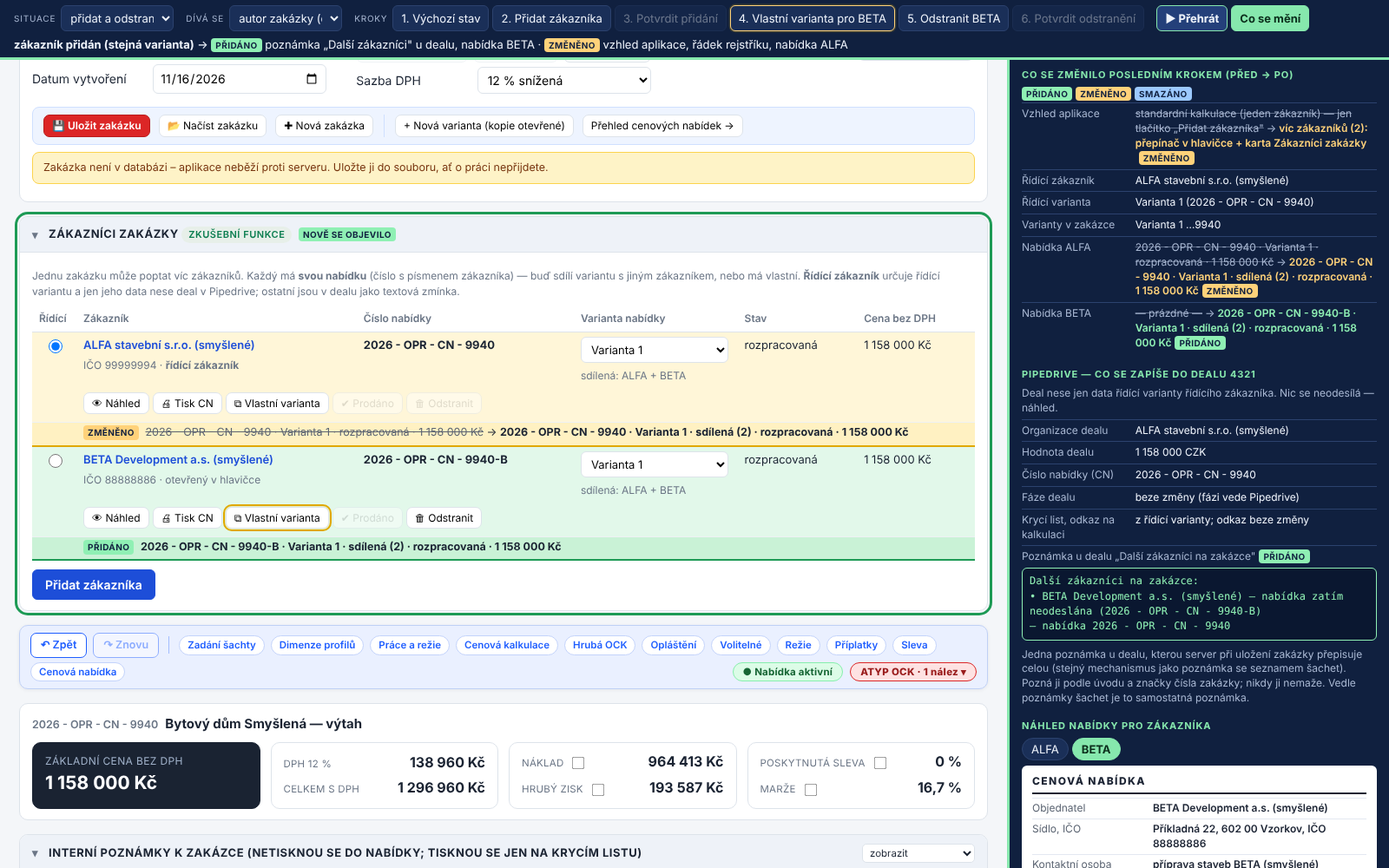
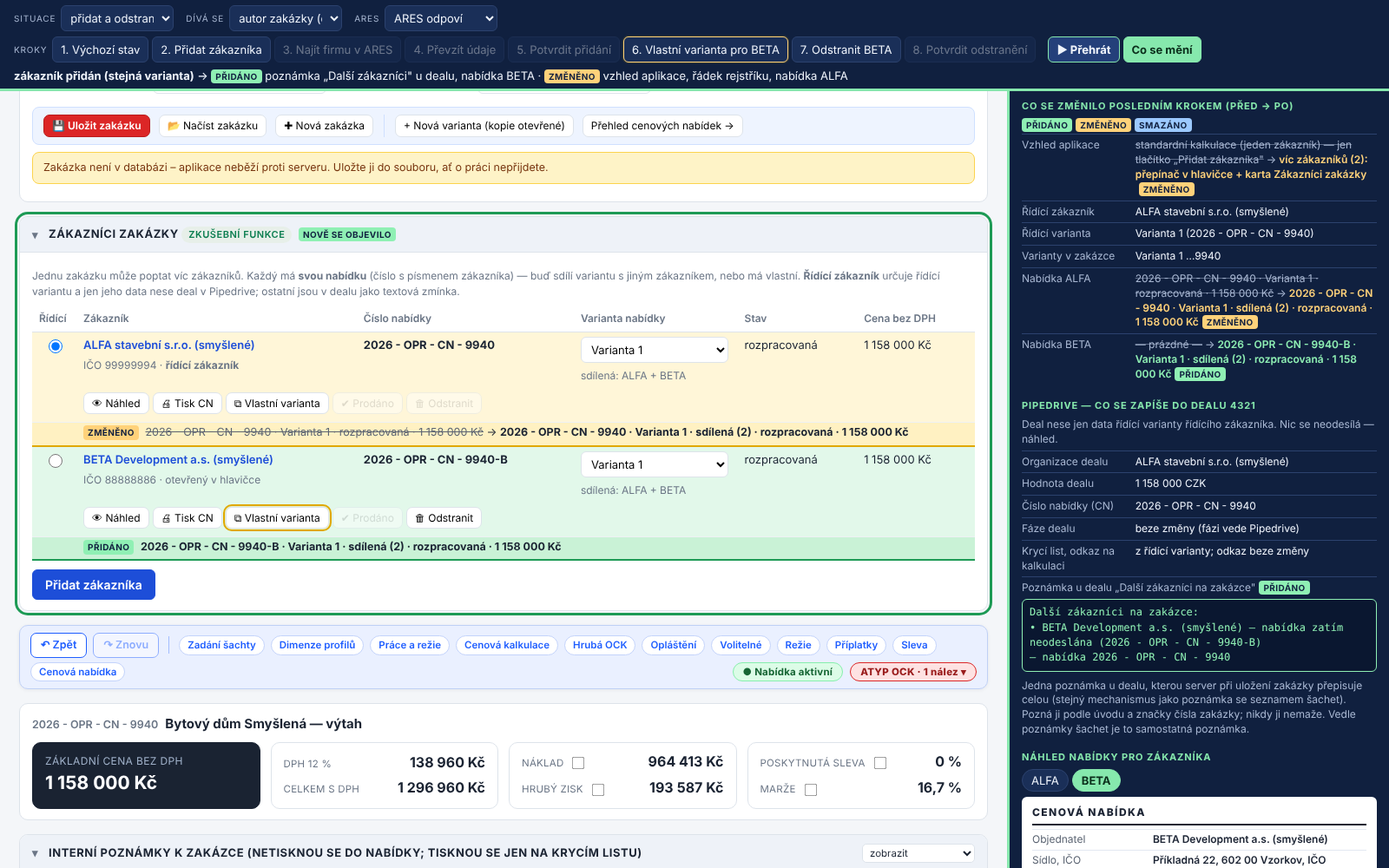
Prototyp víc zákazníků v5: ARES a databáze zákazníků ve formuláři nového zákazníka, širší pole
Doplněk J. V. 16. 11. 2026. Panel a hlášky ARES z aplikace (aresZpracuj, aresRozdily, aresPrepis,
aresHlaska), odpověď rejstříku napodobená, stavy nenalezeno a výpadek. Zapsáno do návrhu § 2a
a promptů E1 a E0. Ověření 46/0 při 1600 i 400 px. Kód aplikace beze změny.

Claude-Session: https://claude.ai/code/session_018mwHQHkWhKrpvqrinmjojg

Changed region(s): [[0.0, 0.0, 1.0, 1.0]]

diff --git a/podklady/vz_prototyp/prototyp.js b/podklady/vz_prototyp/prototyp.js
@@ -22,17 +22,20 @@
   };
   const PISMENA = { a: '', b: 'B', c: 'C' };
   const SCENARE = {
-    pridat: { nazev: 'přidat a odstranit zákazníka', kroky: [['form', '2. Přidat zákazníka'], ['pridejForm:b', '3. Potvrdit přidání'], ['vlastni:b', '4. Vlastní varianta pro BETA'], ['odeber:b', '5. Odstranit BETA'], ['odeberAno', '6. Potvrdit odstranění']] },
+    pridat: { nazev: 'přidat a odstranit zákazníka', kroky: [['form', '2. Přidat zákazníka'], ['ares', '3. Najít firmu v ARES'], ['aresAno', '4. Převzít údaje'], ['pridejForm:b', '5. Potvrdit přidání'], ['vlastni:b', '6. Vlastní varianta pro BETA'], ['odeber:b', '7. Odstranit BETA'], ['odeberAno', '8. Potvrdit odstranění']] },
     odeslana: { nazev: 'odstranit zákazníka s odeslanou nabídkou', kroky: [['odeber:b', '2. Odstranit BETA'], ['odeberAno', '3. Potvrdit odstranění']] },
     stejna: { nazev: 'stejná varianta pro víc zákazníků', kroky: [['pridej:b', '2. Přidat zákazníka BETA'], ['odesli:a', '3. Odeslat nabídku ALFA'], ['odesli:b', '4. Odeslat tutéž nabídku BETA']] },
     sachty: { nazev: 'víc zákazníků + víc šachet', kroky: [['vlastni:b', '2. Vlastní varianta pro BETA'], ['sachty:b', '3. BETA chce dvě varianty šachet (A 1 ks, B 2 ks)'], ['odesli:b', '4. Odeslat nabídku BETA']] },
     prodej: { nazev: 'prodej druhému zákazníkovi', kroky: [['prodej:b', '2. Prodáno → BETA'], ['prodejAno', '3. Potvrdit prodej'], ['orgAno', '4. Zkusit zápis organizace znovu (jen po výpadku)']] },
   };
+  const ARES_STAVY = { ok: 'ARES odpoví', nenalezeno: 'IČO v ARES není', sit: 'výpadek ARES' };
+  /* Napodobená odpověď rejstříku ARES (tvar jako skutečné API, zpracuje ji aresZpracuj z aplikace). */
+  const aresOdpoved = (ico) => { const k = Object.keys(FIRMY).find((x) => FIRMY[x].ico === ico); return k ? { ico, obchodniJmeno: FIRMY[k].nazev, dic: 'CZ' + ico, sidlo: { textovaAdresa: FIRMY[k].sidlo } } : null; };
   const PD_STAVY = { ok: 'Pipedrive odpoví', vypadek: 'výpadek Pipedrive' };
   const ROLE = { autor: 'autor zakázky (obchodník)', jiny: 'jiný obchodník', admin: 'administrátor' };
   const ZNACKY = { pridano: 'přidáno', zmeneno: 'změněno', smazano: 'smazáno', beze: 'beze změny' };
   const DEAL_ID = '4321';
-  const S = { scenar: 'pridat', role: 'autor', pd: 'ok', otevreno: true, hraje: null, blik: false, nahled: '' };
+  const S = { scenar: 'pridat', role: 'autor', pd: 'ok', ares: 'ok', otevreno: true, hraje: null, blik: false, nahled: '' };
   let P, OBS = null, PK = null, KRESLI = false;
   const puvodni = { variantaCislo: window.variantaCislo, cisloSVariantou: window.cisloSVariantou };
 
@@ -130,10 +133,10 @@
 
   /* ----- akce (odpovídají tlačítkům budoucí funkce) ----- */
   function novyZ(id, varianta) { return Object.assign({ id, pismeno: PISMENA[id], varianta, odeslano: {}, platna: null, prodano: '' }, FIRMY[id]); }
-  function pridej(id, vlastniVar) {
+  function pridej(id, vlastniVar, udaje) {
     const rz = ridiciZ();
-    P.zak.push(novyZ(id, rz.varianta)); P.poznamka = true;
-    zapis(ROLE[S.role], 'přidal zákazníka ' + FIRMY[id].kratce + ' (písmeno ' + PISMENA[id] + ') — nabídka ' + cisloZ(Zk(id)) + ', stejná varianta jako ' + rz.kratce);
+    P.zak.push(Object.assign(novyZ(id, rz.varianta), udaje || {})); P.poznamka = true;
+    zapis(ROLE[S.role], 'přidal zákazníka ' + Zk(id).kratce + (udaje && udaje.zdroj ? ' (' + udaje.zdroj + ')' : '') + ' (písmeno ' + PISMENA[id] + ') — nabídka ' + cisloZ(Zk(id)) + ', stejná varianta jako ' + rz.kratce);
     if (vlastniVar) vlastni(id); else otevri(id);
   }
   function vlastni(id) {
@@ -228,7 +231,9 @@
     const zamcena = !!(v && v.zamek && v.zamek.zamceno), prodano = !!prodanoZ();
     if (co === 'pridej') return !z && !prodano;
     if (co === 'form') return !P.formular && !prodano && Object.keys(FIRMY).some((k) => !Zk(k));
-    if (co === 'pridejForm') return !!P.formular && !z;
+    if (co === 'pridejForm') return !!P.formular && !z && !!P.f && String(P.f.h.objednatel).trim() !== '';
+    if (co === 'ares') return !!P.formular && !!P.f && !(P.f.ares && P.f.ares.subjekt) && String(P.f.h.objednatel).trim() === '';
+    if (co === 'aresAno') return !!P.formular && !!P.f && !!(P.f.ares && P.f.ares.subjekt);
     if (co === 'odeberAno') return !!(P.potvrzeni && P.potvrzeni.typ === 'odeber');
     if (co === 'odesli') return !!z && !odeslanoTed(z) && !prodano;
     if (co === 'vlastni') return !!z && !prodano && (sdili(z).length > 1 || zamcena);
@@ -317,15 +322,59 @@
       + '<div class="vzp-pod"><button type="button" class="vzp-modre' + (dalsiKrok().indexOf('pridej') === 0 && !S.hraje ? ' vzp-dalsi' : '') + '" data-vzp="form"' + (volne.length && !prodanoZ() ? '' : ' disabled') + '>Přidat zákazníka</button>' + napoveda + '</div>'
       + form + upoz + potv + '</div>';
   }
+  /* ----- formulář „Nový zákazník na zakázce": ARES a databáze zákazníků jako v hlavičce ----- */
+  const formNovy = () => { const volne = Object.keys(FIRMY).filter((k) => !Zk(k)); return { id: volne[0], h: { objednatel: '', adresaObjednatele: '', ico: volne[0] ? FIRMY[volne[0]].ico : '', dic: '', kontakt: '' }, nova: 'stejna', ares: null, db: false, zdroj: '' }; };
+  function formAres() {
+    const f = P.f, ico = icoNormalizuj(f.h.ico);
+    f.db = false;
+    if (!icoVyplneno(ico)) { f.ares = { chyba: aresHlaska('prazdne') }; return; }
+    if (!icoPlatne(ico)) { f.ares = { chyba: aresHlaska('neplatne') }; return; }
+    if (S.ares === 'sit') { f.ares = { chyba: aresHlaska('sit') }; return; }
+    const sub = S.ares === 'ok' ? aresZpracuj(aresOdpoved(ico)) : null;
+    f.ares = sub ? { subjekt: sub } : { chyba: aresHlaska('nenalezeno', ico) };
+  }
+  function formAresAno() {
+    const f = P.f; if (!f.ares || !f.ares.subjekt) return;
+    const n = aresPrepis(f.h, f.ares.subjekt);
+    f.zdroj = 'ověřen v ARES, převzato ' + n + ' údajů'; f.ares = null;
+  }
+  function formDb(k) {
+    const f = P.f, z = FIRMY[k];
+    Object.assign(f.h, { objednatel: z.nazev, adresaObjednatele: z.sidlo, ico: z.ico, dic: 'CZ' + z.ico, kontakt: z.kontakt });
+    f.zdroj = 'z databáze zákazníků'; f.db = false; f.ares = null;
+  }
+  function formAresHtml() {
+    const f = P.f, a = f.ares;
+    if (!a) return '';
+    if (a.chyba) return '<div class="ares-panel chyba"><div class="ares-hlava">Firma se nenačetla</div><div class="ares-txt">' + esc(a.chyba) + '</div><div class="ares-btns"><button type="button" class="mini" data-vzp="aresNe">Zavřít</button></div></div>';
+    const sub = a.subjekt, rozd = aresRozdily(f.h, sub);
+    return '<div class="ares-panel"><div class="ares-hlava">' + esc(sub.nazev) + '</div><div class="ares-txt">' + esc(aresPopis(sub)) + (sub.dic ? ' · DIČ ' + esc(sub.dic) : '') + '</div>'
+      + (rozd.length ? '<table class="ares-tab"><tr><th>Údaj</th><th>Ve formuláři teď</th><th>Z rejstříku</th></tr>' + rozd.map((r) => '<tr><td>' + esc(r.label) + '</td><td class="stara">' + (r.ted ? esc(r.ted) : '<i>prázdné</i>') + '</td><td class="nova">' + esc(r.nove) + '</td></tr>').join('') + '</table>'
+        + '<div class="ares-btns"><button type="button" class="primary' + (dalsiKrok() === 'aresAno' && !S.hraje ? ' vzp-dalsi' : '') + '" data-vzp="aresAno">Převzít údaje do formuláře (' + rozd.length + ')</button><button type="button" data-vzp="aresNe">Nechat, jak je</button></div>'
+        : '<div class="ares-txt">Formulář už tyhle údaje obsahuje – přepisovat není co.</div><div class="ares-btns"><button type="button" data-vzp="aresNe">Zavřít</button></div>')
+      + '<div class="ares-zdroj">Zdroj: veřejný rejstřík ARES (Ministerstvo financí ČR). V prototypu napodobená odpověď. Údaje se převezmou jen na tomhle potvrzení.</div></div>';
+  }
   function formHtml() {
-    const volne = Object.keys(FIRMY).filter((k) => !Zk(k));
-    return P.formular && volne.length ? '<div class="vzp-form"><b>Nový zákazník na zakázce</b>'
-      + '<div class="row"><label>Zákazník</label><input type="text" value="' + esc(FIRMY[volne[0]].nazev) + '" readonly></div>'
-      + '<div class="row"><label>IČO zákazníka</label><input type="text" value="' + esc(FIRMY[volne[0]].ico) + '" readonly></div>'
-      + '<div class="row"><label>Nabídka</label><span class="vzp-volba"><label><input type="radio" name="vzpNova" value="stejna" checked> stejná varianta jako ' + esc(ridiciZ().kratce) + ' („' + esc(Va(ridiciZ().varianta).nazev) + '")</label>'
-      + '<label><input type="radio" name="vzpNova" value="vlastni"> vlastní varianta (kopie)</label></span></div>'
-      + '<div class="note">V ostré verzi: našeptávač z databáze zákazníků a „Najít firmu v ARES" jako v hlavičce. Zákazník dostane písmeno <b>' + esc(PISMENA[volne[0]]) + '</b> — jeho nabídky ponesou číslo …-' + esc(PISMENA[volne[0]]) + '.</div>'
-      + '<button type="button" class="vzp-modre' + (dalsiKrok() === 'pridejForm:' + volne[0] && !S.hraje ? ' vzp-dalsi' : '') + '" data-vzp="pridejForm:' + volne[0] + '">Přidat zákazníka</button> <button type="button" class="mini" data-vzp="formNe">Zrušit</button></div>' : '';
+    if (!P.formular || !P.f || !P.f.id) return '';
+    const f = P.f, h = f.h, pis = PISMENA[f.id];
+    const pole = (k, popis, navic) => '<div class="row"><label>' + popis + '</label><input type="text" autocomplete="off" data-vzp-f="' + k + '" value="' + esc(h[k]) + '"' + (navic || '') + '></div>';
+    const db = f.db ? '<div class="vzp-db"><b>Databáze zákazníků</b> (v prototypu smyšlené záznamy)' + Object.keys(FIRMY).filter((k) => !Zk(k)).map((k) => '<button type="button" class="vzp-db-r" data-vzp="db:' + k + '"><b>' + esc(FIRMY[k].nazev) + '</b><span>IČO ' + esc(FIRMY[k].ico) + ' · ' + esc(FIRMY[k].sidlo) + '</span></button>').join('') + '</div>' : '';
+    const hotovo = String(h.objednatel).trim() !== '';
+    return '<div class="vzp-form"><b>Nový zákazník na zakázce</b>'
+      + '<div class="vzp-form-pole"><div>'
+      + pole('objednatel', 'Zákazník', ' placeholder="název firmy — nebo ho doplňte z ARES / z databáze"')
+      + pole('adresaObjednatele', 'Sídlo zákazníka')
+      + pole('kontakt', 'Kontaktní osoba')
+      + '</div><div>'
+      + pole('ico', 'IČO zákazníka', ' placeholder="8 číslic" inputmode="numeric"')
+      + pole('dic', 'DIČ zákazníka')
+      + '<div class="row noprint"><div class="ares-tlacitka"><button type="button" class="mini" data-vzp="dbOtevri" title="vybrat zákazníka z databáze zákazníků (doplní všechna pole)">Vybrat z databáze zákazníků</button>'
+      + '<button type="button" class="mini' + (dalsiKrok() === 'ares' && !S.hraje ? ' vzp-dalsi' : '') + '" style="margin-left:auto" data-vzp="ares" title="zeptat se rejstříku ARES, jaká firma pod tímto IČO je">🔎 Najít firmu v ARES</button></div></div>'
+      + '</div></div>' + db + formAresHtml()
+      + '<div class="row vzp-form-nab"><label>Nabídka</label><span class="vzp-volba"><label><input type="radio" name="vzpNova" value="stejna"' + (f.nova === 'stejna' ? ' checked' : '') + '> stejná varianta jako ' + esc(ridiciZ().kratce) + ' („' + esc(Va(ridiciZ().varianta).nazev) + '")</label>'
+      + '<label><input type="radio" name="vzpNova" value="vlastni"' + (f.nova === 'vlastni' ? ' checked' : '') + '> vlastní varianta (kopie)</label></span></div>'
+      + '<div class="note">Zákazník dostane písmeno <b>' + esc(pis) + '</b> — jeho nabídky ponesou číslo …-' + esc(pis) + '.' + (f.zdroj ? ' Údaje: ' + esc(f.zdroj) + '.' : '') + '</div>'
+      + '<button type="button" class="vzp-modre' + (dalsiKrok() === 'pridejForm:' + f.id && !S.hraje ? ' vzp-dalsi' : '') + '" data-vzp="pridejForm:' + f.id + '"' + (hotovo ? '' : ' disabled title="nejdřív vyplňte zákazníka — ručně, z ARES nebo z databáze"') + '>Přidat zákazníka</button> <button type="button" class="mini" data-vzp="formNe">Zrušit</button></div>';
   }
   function odeberHtml() {
     const { z, v, vlastniV, zamcena, odeslano } = odeberInfo(P.potvrzeni.id);
@@ -424,6 +473,7 @@
     document.getElementById('vzpLista').innerHTML =
       '<div class="vzp-sk"><label class="vzp-pop" for="vzpScenar">Situace</label>' + vyber('vzpScenar', SCENARE, S.scenar) + '</div>'
       + '<div class="vzp-sk"><label class="vzp-pop" for="vzpRole">Dívá se</label>' + vyber('vzpRole', ROLE, S.role) + '</div>'
+      + (S.scenar === 'pridat' || P.formular ? '<div class="vzp-sk"><label class="vzp-pop" for="vzpAres">ARES</label>' + vyber('vzpAres', ARES_STAVY, S.ares) + '</div>' : '')
       + (S.scenar === 'prodej' ? '<div class="vzp-sk"><label class="vzp-pop" for="vzpPd">Pipedrive</label>' + vyber('vzpPd', PD_STAVY, S.pd) + '</div>' : '')
       + '<div class="vzp-sk vzp-kroky"><span class="vzp-pop">Kroky</span>' + kr('reset', '1. Výchozí stav') + kroky.map(([a, t]) => kr(a, t)).join('') + '</div>'
       + (P.krok === 'vychozi' && !S.hraje && k ? '<span class="vzp-napoveda">◀ Klikněte na „' + esc(k[1]) + '"</span>' : '')
@@ -510,7 +560,7 @@
 
   const POPISY = { pridej: 'zákazník přidán (stejná varianta)', odesli: 'nabídka vytištěna (odeslána)', vlastni: 'založena vlastní varianta zákazníka', uprav: 'vlastní varianta upravena', sachty: 've vlastní variantě víc šachet',
     prodej: 'prodej — čeká na potvrzení', prodejAno: 'prodáno, řídící zákazník změněn', orgAno: 'organizace dealu přepsána (opakovaný zápis)', ridici: 'řídící zákazník změněn ručně',
-    odeber: 'odstranění zákazníka — čeká na potvrzení', odeberAno: 'zákazník odstraněn', form: 'formulář nového zákazníka', varianta: 'zákazníkovi přiřazena jiná varianta' };
+    odeber: 'odstranění zákazníka — čeká na potvrzení', odeberAno: 'zákazník odstraněn', form: 'formulář nového zákazníka', ares: 'dotaz do ARES (formulář nového zákazníka)', aresAno: 'údaje z ARES převzaty do formuláře', varianta: 'zákazníkovi přiřazena jiná varianta' };
   function krok(a, arg) {
     const [co, id] = a.split(':');
     zHlavicky();
@@ -518,18 +568,25 @@
     if (co === 'reset') { vychozi(); S.blik = false; kresli(); window.scrollTo(0, 0); return; }
     if (co === 'vyber') { otevri(id); kresli(); return; }
     if (co === 'nahled') { S.nahled = id; if (id !== P.vybrany) otevri(id); S.otevreno = true; kresli(); const n = document.querySelector('#vzpPanel .vzp-papir'); if (n && n.scrollIntoView) n.scrollIntoView({ block: 'center' }); return; }
-    if (co === 'formNe') { P.formular = false; kresli(); return; }
+    if (co === 'formNe') { P.formular = false; P.f = null; kresli(); return; }
+    if (co === 'aresNe') { P.f.ares = null; kresli(); return; }
+    if (co === 'dbOtevri') { P.f.db = !P.f.db; P.f.ares = null; kresli(); return; }
+    if (co === 'db') { formDb(id); kresli(); return; }
+    if (co === 'ares' && !(P.formular && P.f)) return;
+    if (co === 'ares' && String(P.f.h.objednatel).trim() !== '' ) { formAres(); kresli(); return; }   // ruční ověření už vyplněného formuláře (mimo kroky)
     if (co === 'potvNe') { P.potvrzeni = null; kresli(); return; }
     if (!lze(a)) return;
     const idx = SCENARE[S.scenar].kroky.findIndex((x) => x[0] === a);
-    if (['prodej', 'form', 'odeber'].includes(co)) P.pred = snimek();   // krok jen otevírá potvrzení — nic se nemění
+    if (['prodej', 'form', 'odeber', 'ares', 'aresAno'].includes(co)) P.pred = snimek();   // krok jen otevírá potvrzení — nic se nemění
     if (co === 'prodej') { P.potvrzeni = { typ: 'prodej', id }; otevri(id); }
-    else if (co === 'form') P.formular = true;
+    else if (co === 'form') { P.formular = true; P.f = formNovy(); }
+    else if (co === 'ares') formAres();
+    else if (co === 'aresAno') formAresAno();
     else if (co === 'odeber') { P.potvrzeni = { typ: 'odeber', id }; P.formular = false; }
     else {
       P.pred = snimek(); P.formular = false;
       if (co === 'pridej') pridej(id, false);
-      else if (co === 'pridejForm') pridej(id, arg === 'vlastni');
+      else if (co === 'pridejForm') { const h = P.f.h; pridej(id, P.f.nova === 'vlastni', { nazev: String(h.objednatel).trim(), sidlo: String(h.adresaObjednatele).trim(), ico: icoNormalizuj(h.ico), kontakt: String(h.kontakt).trim(), kratce: (String(h.objednatel).trim().split(/\s+/)[0] || FIRMY[id].kratce).toUpperCase().slice(0, 14), zdroj: P.f.zdroj }); P.f = null; }
       else if (co === 'vlastni') vlastni(id);
       else if (co === 'uprav') uprav(id);
       else if (co === 'sachty') sachty(id);
@@ -551,6 +608,7 @@
   function hraj() {
     if (S.hraje) { zastav(); kresli(); return; }
     if (S.role === 'jiny') S.role = 'autor';
+    S.ares = 'ok';
     if (S.scenar === 'odeslana') S.role = 'admin';
     const fronta = ['reset'].concat(SCENARE[S.scenar].kroky.map((x) => x[0]));
     S.hraje = { i: 0, t: null };
@@ -569,12 +627,15 @@
     if (a === 'hraj') { hraj(); return; }
     zastav();
     if (a === 'panel') { S.otevreno = !S.otevreno; kresli(); return; }
-    if (a.indexOf('pridejForm:') === 0) { const v = document.querySelector('input[name="vzpNova"]:checked'); krok(a, v ? v.value : 'stejna'); return; }
+
     if (a === 'odeberAno') { const v = document.querySelector('input[name="vzpOdeber"]:checked'); krok(a, v ? v.value : 'smazat'); return; }
     krok(a);
   }
   function zmena(e) {
     const t = e.target; if (!t) return;
+    if (t.id === 'vzpAres') { zastav(); S.ares = t.value; if (P.f) P.f.ares = null; kresli(); return; }
+    if (t.name === 'vzpNova' && P.f) { P.f.nova = t.value; return; }
+    if (t.getAttribute && t.getAttribute('data-vzp-f') && P.f) { P.f.h[t.getAttribute('data-vzp-f')] = t.value; kresli(); return; }
     if (t.id === 'vzpScenar' || t.id === 'vzpRole' || t.id === 'vzpPd') {
       zastav(); S[{ vzpScenar: 'scenar', vzpRole: 'role', vzpPd: 'pd' }[t.id]] = t.value;
       if (t.id === 'vzpScenar' && t.value === 'odeslana') S.role = 'admin';   // odstranit zákazníka s odeslanou nabídkou smí jen administrátor
@@ -600,6 +661,8 @@
     document.body.insertBefore(l, document.body.firstChild);
     document.body.addEventListener('click', klik);
     document.body.addEventListener('change', zmena);
+    /* psaní do formuláře: hodnota se drží ve stavu, aby ji překreslení aplikace nesmazalo */
+    document.body.addEventListener('input', (e) => { const t = e.target, k = t && t.getAttribute && t.getAttribute('data-vzp-f'); if (k && P.f) P.f.h[k] = t.value; });
     window.addEventListener('resize', vyska);
     let t = null;
     PK = document.getElementById('page-kalk');

diff --git a/podklady/vz_prototyp/prototyp.css b/podklady/vz_prototyp/prototyp.css
@@ -149,3 +149,23 @@ body.vzp-otevreno { margin-right: 440px; }
 .vzp-chips-row .vzp-zn { align-self: center; }
 #vzpKarta .vzp-cervene { font: 600 14px system-ui, sans-serif; cursor: pointer; border-radius: 6px; padding: 8px 14px; border: 1px solid #b3261e; background: #b3261e; color: #fff; }
 #vzpKarta .vzp-pr .vzp-volba label { display: flex; }
+
+/* ----- formulář nového zákazníka: plná šířka polí, ARES a databáze zákazníků ----- */
+.vzp-form .vzp-form-pole { display: grid; grid-template-columns: minmax(0, 3fr) minmax(0, 2fr); gap: 4px 28px; margin-top: 6px; }
+.vzp-form .vzp-form-pole .row { max-width: none; }
+.vzp-form .vzp-form-pole .row > label { flex: 0 0 130px; }
+.vzp-form .vzp-form-pole .row > input[type=text] { flex: 1 1 auto; width: auto !important; min-width: 0; text-align: left; }
+.vzp-form .vzp-form-nab { max-width: none; margin-top: 8px; }
+.vzp-form .vzp-form-nab > label { flex: 0 0 130px; }
+.vzp-form .ares-panel { max-width: none; }
+.vzp-form .vzp-db { margin: 6px 0 8px; padding: 8px 10px; background: #fff; border: 1px solid #c3cde0; border-radius: 6px; display: flex; flex-direction: column; gap: 4px; }
+.vzp-form .vzp-db-r { font: inherit; text-align: left; cursor: pointer; background: #f6f8fc; border: 1px solid #d5dcea; border-radius: 6px; padding: 5px 9px; display: flex; flex-wrap: wrap; gap: 4px 12px; color: #1b2333; }
+.vzp-form .vzp-db-r:hover { border-color: #1d4ed8; }
+.vzp-form .vzp-db-r span { color: #5b6472; }
+.vzp-form button.vzp-dalsi, .vzp-form .ares-btns button.vzp-dalsi { outline: 2px solid #e0a800; outline-offset: 1px; animation: vzp-pulz 1.4s ease-in-out infinite; }
+@media (max-width: 760px) {
+  .vzp-form .vzp-form-pole { grid-template-columns: minmax(0, 1fr); }
+  .vzp-form .vzp-form-pole .row, .vzp-form .vzp-form-nab { flex-wrap: wrap; }
+  .vzp-form .vzp-form-pole .row > label, .vzp-form .vzp-form-nab > label { flex: 1 1 100%; }
+  .vzp-form .ares-tlacitka { flex-wrap: wrap; }
+}

diff --git a/podklady/PROMPT_VZ_E1.md b/podklady/PROMPT_VZ_E1.md
@@ -19,8 +19,18 @@ odstranění posledního je obrazovka i zakázka jako předtím.
 
 1. **Tlačítko** „Přidat zákazníka“ (bez „+“) na stejném řádku hned vedle popisku Zákazník; řádek má stejnou výšku jako Kontaktní osoba a IČO, pole Zákazník se zúží (návrh § 2a; ověř 1200–1920 px, při 400 px smí zalomit) (jen ZAP, jen kdo smí ukládat, ne u prodané zakázky,
    ne v režimu jen ke čtení). Nic jiného se s jedním zákazníkem nemění.
-2. **Formulář** v hlavičce (vzor panelu ARES): zákazník přes našeptávač a databázi zákazníků, IČO s kontrolní
-   číslicí, „Najít firmu v ARES“, volba „stejná varianta jako řídící“ / „vlastní varianta (kopie)“, Přidat / Zrušit.
+2. **Formulář „Nový zákazník na zakázce“** v hlavičce přes celou šířku karty (prototyp, snímky `v5_*`): Zákazník
+   (s našeptávačem), Sídlo, Kontaktní osoba, IČO, DIČ — pole široká na celý název; volba „stejná varianta jako
+   řídící“ / „vlastní varianta (kopie)“; Přidat (zhasnuté bez názvu) / Zrušit.
+   **ARES a databáze zákazníků fungují ve formuláři stejně jako v hlavičce** (doplněk J. V. 16. 11. 2026):
+   tlačítka „Vybrat z databáze zákazníků“ a „🔎 Najít firmu v ARES“ vedle IČO; panel ARES s tabulkou „Údaj / Ve
+   formuláři teď / Z rejstříku“ a převzetím až po potvrzení; hlášky `aresHlaska` (prázdné, neplatné IČO —
+   do rejstříku se neptá, nenalezeno, výpadek), zaniklý subjekt. **Nekopíruj `ares_ui.js`:** zobecni `ARES.kde`,
+   `aresHlavicka(kde)`, `aresHledej`, `aresPanel`, `aresPrepisPotvrd` na „cíl“ (hlavička OCK, PROJ, formulář nového
+   zákazníka, otevřený další zákazník) — cíl dává objekt údajů, popisek sloupce („V hlavičce teď“ / „Ve formuláři
+   teď“), zmrazení a kam se zapíše protokol. Hlavička se tím nesmí změnit ani o znak (harness proti bázi,
+   `overit_lista.mjs`). Totéž pro „Vybrat z databáze“ (`zakaznici_ui.js`). Odpověď ARES je nedůvěryhodný vstup —
+   vše přes `esc` / `escJs`, otrávený název do `overit_xss.mjs`. Testy ARES jen s podvrženým `fetch`.
 3. **2+ zákazníků:** řádek přepínače zákazníků nad polem Zákazník (★ řídící, písmeno, „+“); pole Zákazník, Kontaktní
    osoba, IČO, tlačítka ARES a databáze pracují s **otevřeným zákazníkem** (`VZ_UI.otevreny`; čtení a zápis přes
    jedno místo — vzor `vsSyncZ`). Otevření zákazníka otevře jeho variantu. Zmrazení hlavičky (`zamekZakAttr`) platí

diff --git a/podklady/NAVRH_VICE_ZAKAZNIKU.md b/podklady/NAVRH_VICE_ZAKAZNIKU.md
@@ -134,9 +134,18 @@ souborů nahradí pohled zákazníka s testem úniku. Proto seznam v zakázce.
   Zákazník se o šířku tlačítka zúží (popisek s tlačítkem `flex: 0 0 auto`, pole `flex: 1`, nejméně 110 px).
   Ověřeno při 1600 px s panelem prototypu i bez něj; při 400 px smí zalomit. Nic jiného se nemění: žádná karta, přepínač, štítek, pruh u náhledu ani písmeno
   v čísle. Dokumenty, data i rejstřík jsou bajtově stejné jako dnes.
-- Tlačítko otevře v hlavičce formulář (vzor panelu ARES): zákazník přes našeptávač a databázi zákazníků, IČO,
-  „Najít firmu v ARES“, a volba nabídky — **stejná varianta jako řídící zákazník** (výchozí), nebo **vlastní varianta
-  (kopie)**. Zrušení formuláře nic nezmění.
+- Tlačítko otevře v hlavičce formulář „Nový zákazník na zakázce“ přes celou šířku karty: Zákazník, Sídlo, Kontaktní
+  osoba, IČO, DIČ (pole široká na celý název a IČO), a volba nabídky — **stejná varianta jako řídící zákazník**
+  (výchozí), nebo **vlastní varianta (kopie)**. Zrušení formuláře nic nezmění.
+- **ARES a databáze zákazníků ve formuláři (doplněk J. V. 16. 11. 2026):** vedle IČO jsou tatáž tlačítka jako
+  v hlavičce — „Vybrat z databáze zákazníků“ a „🔎 Najít firmu v ARES“ — a pole Zákazník má našeptávač. ARES ukáže
+  tentýž panel jako v hlavičce (firma, tabulka „Údaj / Ve formuláři teď / Z rejstříku“, zaniklý subjekt, hlášky
+  neplatné IČO / nenalezeno / výpadek) a údaje převezme **jen po potvrzení** („Převzít údaje do formuláře (N)“).
+  Stejná logika jako dnes: `aresUrl`, `aresZpracuj`, `aresRozdily`, `aresPrepis`, `aresHlaska` (`src/ares.js`) —
+  panel a dotaz z `src/ui/ares_ui.js` se zobecní na „cíl“ (hlavička OCK, hlavička PROJ, formulář nového zákazníka,
+  později otevřený další zákazník), aby nevznikla druhá kopie. Výběr z databáze doplní všechna pole (`zakaznikPredvypln`).
+  „Přidat zákazníka“ je zhasnuté, dokud není vyplněný název. Po přidání se do protokolu zapíše, odkud údaje jsou
+  (ARES / databáze / ručně) — jen název firmy, žádné kontakty.
 - Potvrzením vznikne druhý zákazník a teprve tehdy se objeví přepínač zákazníků v hlavičce (místo tlačítka; má
   vlastní „+“), karta „Zákazníci zakázky“ pod hlavičkou a pruh „náhled a tisk platí pro zákazníka X“.
 

diff --git a/podklady/vz_prototyp/README.md b/podklady/vz_prototyp/README.md
@@ -33,6 +33,11 @@ administrátor. Ověření 33 kontrol; snímky `snimky/v3_*` (dotčené kroky), 
 (stejná výška řádku jako sousední); vypínač víc šachet je v prototypu zapnutý (skutečné ovládání šachet aplikace)
 a přibyla situace „víc zákazníků + víc šachet“. Ověření 38 kontrol; snímky `snimky/v4_*`.
 
+**Verze 5 (doplněk J. V. 16. 11. 2026):** formulář „Nový zákazník na zakázce“ má široká pole (Zákazník, Sídlo,
+Kontaktní osoba, IČO, DIČ), „Vybrat z databáze zákazníků“ a funkční „Najít firmu v ARES“ — panel a hlášky jsou
+z aplikace (`aresZpracuj`, `aresRozdily`, `aresPrepis`, `aresHlaska`), odpověď rejstříku je napodobená; přepínač
+„ARES: odpoví / IČO v ARES není / výpadek“ v liště. Ověření 46 kontrol; snímky `snimky/v5_*`.
+
 Situace: (1) přidat a odstranit zákazníka, (2) odstranit zákazníka s odeslanou nabídkou, (3) stejná varianta pro
 víc zákazníků, (4) víc zákazníků + víc šachet, (5) prodej druhému zákazníkovi.
 

diff --git a/podklady/PROMPT_VZ_E0.md b/podklady/PROMPT_VZ_E0.md
@@ -49,6 +49,14 @@ Přečti `src/vice_sachet.js` (vzor „první na původním místě, ostatní v 
 pohled neobsahuje žádný řetězec jiného zákazníka, tvar), `netlify/test_vz_server.mjs` (VYP odmítá změnu, ZAP
 vadný tvar, podvržené `vzRidici`), zlatá sada. Mutace „[VZ E0]“ nad `vice_zakazniku.js` a kontrolou serveru.
 
+## Poznámka k ARES
+
+Čistá logika ARES (`src/ares.js`: `aresRozdily`, `aresPrepis` nad libovolným objektem s klíči `objednatel`,
+`adresaObjednatele`, `ico`, `dic`) se pro formulář nového zákazníka a pro dalšího zákazníka použije beze změny —
+`dalsiZakaznici[i].hlavicka` má proto **stejné klíče jako hlavička zakázky**. Ověř testem (`test_vz_model.js`), že
+`aresRozdily` a `aresPrepis` nad `hlavicka` dalšího zákazníka dávají stejný výsledek jako nad hlavičkou zakázky.
+Zobecnění obrazovky ARES je v E1.
+
 ## Co nedělat
 
 Žádná obrazovka kromě vypínače v Nastavení, žádná změna čísel, dokumentů, zámku, rejstříku ani Pipedrive.

diff --git a/PREDAVKA.md b/PREDAVKA.md
@@ -13,6 +13,10 @@ weby, Disk, Pipedrive nic. Programování spouští koordinace až po souhlasu J
 bez „+“ na řádku vedle popisku Zákazník (zapsáno do návrhu § 2a a promptu E1); v prototypu zapnuté víc šachet
 a situace „víc zákazníků + víc šachet“.
 
+**Doplněk J. V. 16. 11. — ARES ve formuláři nového zákazníka (prototyp v5, ověření 46/0, snímky `v5_*`):** formulář
+má široká pole, „Vybrat z databáze zákazníků“ a funkční „Najít firmu v ARES“ s potvrzením rozdílů; zapsáno
+do návrhu § 2a a promptů E1 (zobecnění `ares_ui.js` na cíl, žádná kopie) a E0 (stejné klíče hlavičky).
+
 **Etapy:** E0 → E1 → E2 → E3 → E4 → E5b → E6; E5 souběžně s E1–E3 (po E0). Revize poradce: E0, E2, E3, E5b.
 **Čeká na J. V.:** souhlas se spuštěním; jedna nová otázka — kontaktní osoba dealu po přepsání organizace (§ 11,
 doporučeno: neměnit a upozornit).
